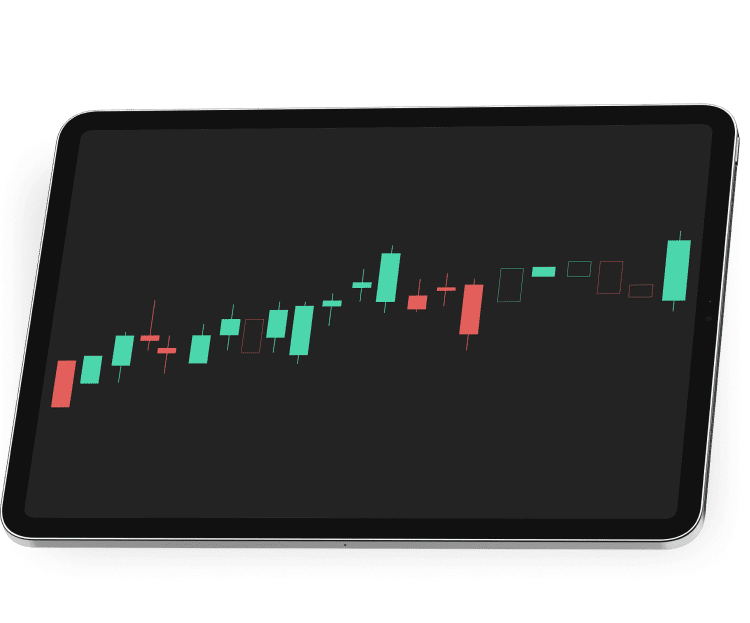
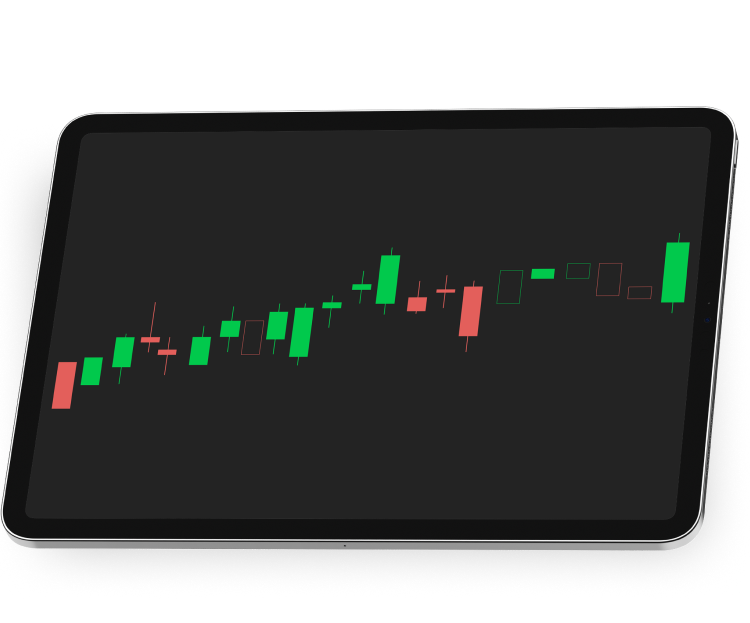
t18

diff --git a/index.html b/index.html
@@ -53,11 +53,13 @@
         <section class="forex-trading-hero section-padding">
             <div class="container">
                 <header class="forex-trading-hero__header">
-                    <h1 class="forex-trading-hero__title">Tight spreads-the fast lane <span class="text-green">
-                            to maximising your profit
-                        </span></h1>
-                    <p class="forex-trading-hero__description">Trade forex, metals, indices and cryptocurrencies with
-                        the lowest spreads in the industry</p>
+                    <h1 class="forex-trading-hero__title">
+                         <p class="text-capitalize">Tight spreads</p>
+                         <p class="text-green text-capitalize">
+                            the fast lane to maximising your profit
+                         </p></h1>
+
+                    <p class="forex-trading-hero__description">Trade Forex, Stocks, Metals, Indices and Cryptocurrencies with the Lowest Spreads in the Industry!</p>
                     <a class="btn-base btn-base-small btn-blue-red" href="https://adrofx.club/registration/live">open account</a>
 
                     <div class="forex-trading-hero__widget">
@@ -257,8 +259,8 @@
                         <h2 class="forex-trading-feedback__title">Our traders <span class="text-gradient">say it
                                 best </span></h2>
                         <p class="forex-trading-feedback__text">
-                            Sed ut perspiciatis unde omnis iste natus error sit voluptatem accusantium doloremque
-                            laudantium,
+                            Trade with a trusted global broker Take Control Of Your Trading With AdroFx
+ 
                         </p>
 
                         <div class="forex-trading-feedback-rating">
@@ -582,7 +584,7 @@
                             <header class="forex-trading-banner__header">
                                 <h2 class="forex-trading-banner__title">Fast-track your success
                                 </h2>
-                                <p class="forex-trading-banner__description">Register with OctaFX to start earning more
+                                <p class="forex-trading-banner__description">Register with AdroFx to start earning more
                                 </p>
                                 <a class="btn-base btn-base-small btn-green-red" href="https://adrofx.club/registration/live">Get Started</a>
                             </header>

diff --git a/css/style.scss b/css/style.scss
@@ -1,6 +1,6 @@
 @import url("https://fonts.googleapis.com/css2?family=Roboto:wght@100;300;400;500;700;900&&display=swap");
 
-$font-size-80-20: clamp(1.25rem, calc(-0.32rem + 6.71vw), 4.88rem);
+$font-size-80-20:clamp(1.25rem, calc(0.22rem + 4.39vw), 3.63rem);
 $font-size-50-18: clamp(1.13rem, calc(0.26rem + 3.70vw), 3.13rem);
 $font-size-36-16: clamp(1.00rem, calc(0.46rem + 2.31vw), 2.25rem);
 $font-size-24-16: clamp(1.00rem, calc(0.78rem + 0.92vw), 1.50rem);
@@ -89,7 +89,7 @@ img {
 }
 
 .text-green {
-    color: var(--green-500)
+    color:  #00C94C;
 }
 
 .btn-base {
@@ -298,7 +298,7 @@ img {
 }
 
 .forex-trading-hero__title {
-    font-size: $font-size-80-20;
+    font-size: 50px;
     margin-bottom: 10px;
 
 }
@@ -340,7 +340,7 @@ img {
     border: none;
     color: var(--light);
     padding: 30px;
-    border: 2px solid var(--green-500);
+    border: 2px solid #00C94C;
 }
 
 .forex-trading-hero__widget-list .forex-trading-hero__widget-btn {
@@ -475,6 +475,8 @@ img {
     margin-top: 10px;
 }
 
+
+.forex-trading-feedback-rating__text {color: var(--blue-500);}
 
 .forex-trading-banner {
     background-color: var(--blue-100);

diff --git a/css/style.css b/css/style.css
@@ -67,7 +67,7 @@ img {
 }
 
 .text-green {
-  color: var(--green-500);
+  color: #00C94C;
 }
 
 .btn-base {
@@ -222,7 +222,7 @@ img {
 }
 
 .forex-trading-hero__title {
-  font-size: clamp(1.25rem, -0.32rem + 6.71vw, 4.88rem);
+  font-size: 50px;
   margin-bottom: 10px;
 }
 
@@ -262,7 +262,7 @@ img {
   border: none;
   color: var(--light);
   padding: 30px;
-  border: 2px solid var(--green-500);
+  border: 2px solid #00C94C;
 }
 
 .forex-trading-hero__widget-list .forex-trading-hero__widget-btn {
@@ -389,6 +389,10 @@ img {
 .forex-trading-feedback-rating__text,
 .forex-trading-feedback__rating {
   margin-top: 10px;
+}
+
+.forex-trading-feedback-rating__text {
+  color: var(--blue-500);
 }
 
 .forex-trading-banner {

diff --git a/js/gasp-configur.js b/js/gasp-configur.js
@@ -10,7 +10,7 @@ document.addEventListener("DOMContentLoaded", function () {
   tl.to(".image-1-2", {
     scrollTrigger: {
       trigger: ".image-1-2",
-      start: "10px center",
+      start: "-200px center",
       end: "10px center",
     },
 
@@ -19,7 +19,7 @@ document.addEventListener("DOMContentLoaded", function () {
 
   ScrollTrigger.create({
     trigger: ".image-1-2",
-    start: "10px center",
+    start: "-200px center",
     end: "200px center",
     onToggle: (self) => {
       if (self.isActive === false) {

diff --git a/js/random-pips.js b/js/random-pips.js
@@ -12,7 +12,7 @@ function random(min, max, text) {
     if (Number(result) > 1.6 || Number(result) > 0.6 && Number(result) < 1.0) {
         text.style.color = "#E53935"
     } else {
-        text.style.color = "#4CD7AB"
+        text.style.color = "#00C94C"
     } 
     
 
